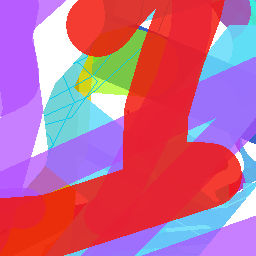
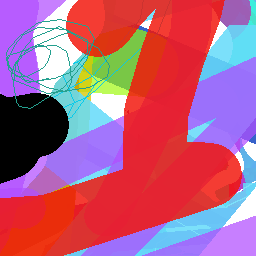
Fixed the glsl function that inverts the color of destination pixels

Changed region(s): [[0.0, 0.0625, 0.4062, 0.7188], [0.4062, 0.2188, 0.4375, 0.3125], [0.3438, 0.3125, 0.375, 0.3438]]

diff --git a/Code/drawing_functions.py b/Code/drawing_functions.py
@@ -379,14 +379,20 @@ class RenderObjects():
         quads = gl_context.buffer(data=array('f', [topleft_x, topleft_y, 0.0, 0.0, topright_x, topleft_y, 1.0, 0.0, topleft_x, bottomleft_y, 0.0, 1.0, topright_x, bottomleft_y, 1.0, 1.0,]))
         renderer = gl_context.vertex_array(program, [(quads, '2f 2f', 'vert', 'texcoord')])
         renderable_object.texture.use(0)
-        gl_context.blend_equation = moderngl.FUNC_ADD
-        gl_context.blend_func = (
-            moderngl.ONE_MINUS_DST_COLOR, moderngl.ONE_MINUS_SRC_ALPHA,
-            moderngl.ZERO, moderngl.ONE
-            )
+
+
+
+        # gl_context.blend_equation = moderngl.FUNC_ADD
+        # gl_context.blend_func = (
+        #     moderngl.ONE_MINUS_DST_COLOR, moderngl.ONE_MINUS_SRC_ALPHA
+        #     )
+        # renderer.render(mode=moderngl.TRIANGLE_STRIP)
+        # gl_context.blend_equation = moderngl.FUNC_ADD
+        # gl_context.blend_func = (moderngl.SRC_ALPHA, moderngl.ONE_MINUS_SRC_ALPHA)
+
+
         renderer.render(mode=moderngl.TRIANGLE_STRIP)
-        gl_context.blend_equation = moderngl.FUNC_ADD
-        gl_context.blend_func = (moderngl.SRC_ALPHA, moderngl.ONE_MINUS_SRC_ALPHA)
+
         quads.release()
         renderer.release()
     #
@@ -1178,6 +1184,52 @@ class DrawCheckerboard():
         self.program = gl_context.program(vertex_shader = self.VERTICE_SHADER, fragment_shader = self.FRAGMENT_SHADER)
 
 
+# class DrawInvertWhite():
+#     def __init__(self, gl_context):
+#         self.VERTICE_SHADER = '''
+#         #version 330 core
+
+#         uniform float aspect;
+
+#         in vec2 vert;
+#         in vec2 texcoord;
+#         out vec2 uvs;
+
+#         void main() {
+#             uvs = texcoord;
+#             gl_Position = vec4(
+#             vert.x / aspect, 
+#             vert.y, 0.0, 1.0
+#             );
+#         }
+#         '''
+#         self.FRAGMENT_SHADER = '''
+#         #version 330 core
+
+#         uniform sampler2D tex;
+#         uniform float red;
+
+#         in vec2 uvs;
+#         out vec4 f_color;
+
+#         void main() {
+#             float grey_scale = (0.3333 * texture(tex, uvs).r) + (0.3333 * texture(tex, uvs).g) + (0.3333 * texture(tex, uvs).b);
+#             f_color = vec4(
+#                 texture(tex, uvs).r,
+#                 texture(tex, uvs).g,
+#                 texture(tex, uvs).b,
+#                 texture(tex, uvs).a
+#                 );
+#             float factor = 1.0 * f_color.a;
+#             f_color.rgb *= factor;
+#             f_color.rgb *= grey_scale;
+#             f_color = f_color;
+#         }
+#         '''
+#         self.program = gl_context.program(vertex_shader = self.VERTICE_SHADER, fragment_shader = self.FRAGMENT_SHADER)
+
+
+
 class DrawInvertWhite():
     def __init__(self, gl_context):
         self.VERTICE_SHADER = '''
@@ -1199,25 +1251,22 @@ class DrawInvertWhite():
         '''
         self.FRAGMENT_SHADER = '''
         #version 330 core
+        #extension GL_EXT_shader_framebuffer_fetch : require
 
         uniform sampler2D tex;
-        uniform float red;
 
         in vec2 uvs;
         out vec4 f_color;
 
         void main() {
-            float grey_scale = (0.3333 * texture(tex, uvs).r) + (0.3333 * texture(tex, uvs).g) + (0.3333 * texture(tex, uvs).b);
-            f_color = vec4(
-                texture(tex, uvs).r,
-                texture(tex, uvs).g,
-                texture(tex, uvs).b,
-                texture(tex, uvs).a
-                );
-            float factor = 1.0 * f_color.a;
-            f_color.rgb *= factor;
-            f_color.rgb *= grey_scale;
-            f_color = f_color;
+            vec3 destColor = gl_LastFragData[0].rgb;
+            float luminosity = dot(destColor, vec3(0.299, 0.587, 0.114));
+            f_color = vec4(texture(tex, uvs).rgba);
+            if (luminosity < 0.5) {
+                f_color.rgb = vec3(1.0, 1.0, 1.0);
+            } else {
+                f_color.rgb = vec3(0.0, 0.0, 0.0);
+            }
         }
         '''
         self.program = gl_context.program(vertex_shader = self.VERTICE_SHADER, fragment_shader = self.FRAGMENT_SHADER)
